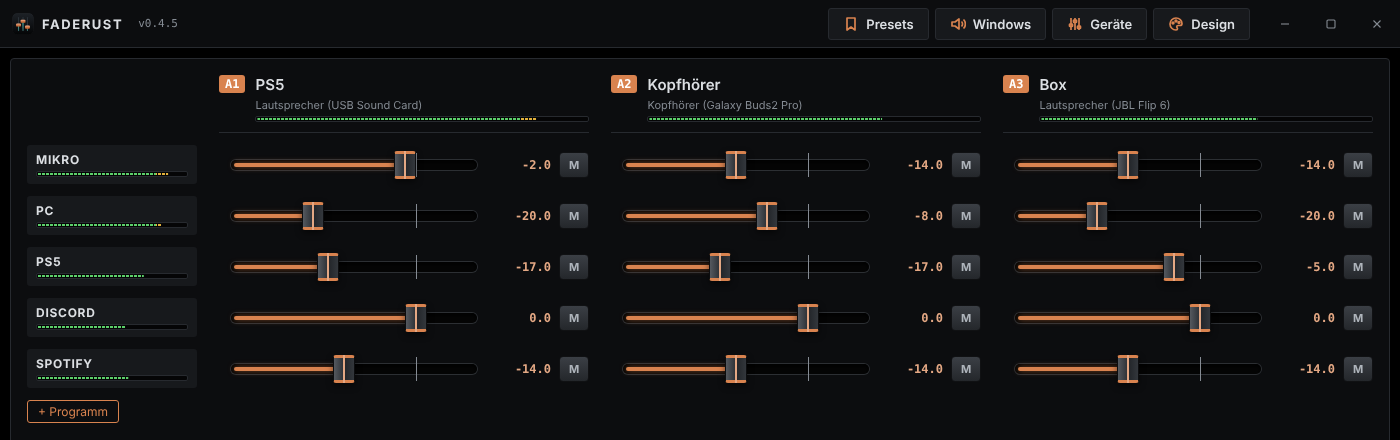
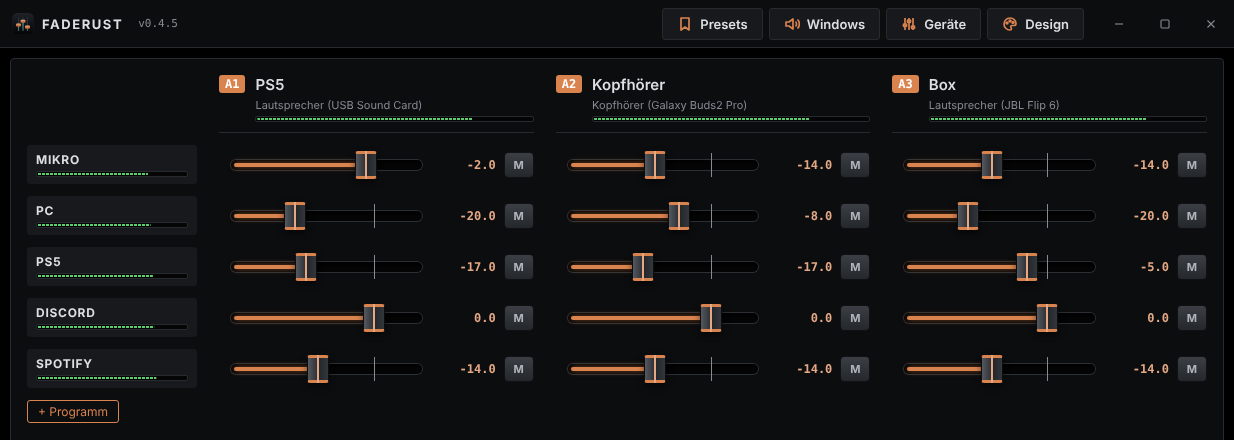
Fit the window width to the strips, narrower program strips (0.4.6)

diff --git a/crates/app/ui/src/lib/StripView.svelte b/crates/app/ui/src/lib/StripView.svelte
@@ -1,7 +1,8 @@
 <script>
   import Fader from "./Fader.svelte";
   import Meter from "./Meter.svelte";
-  import { fxActive } from "./api.js";
+  import { tick } from "svelte";
+  import { fitWindowWidth, fxActive } from "./api.js";
   import { stripChanges, stripValue, OFF } from "./scale.js";
 
   /**
@@ -32,6 +33,21 @@
 
   const row = (i) => outputs.map((_, o) => gains[i]?.[o] ?? { db: 0, muted: true });
 
+  // The window follows the strips: wider for each new one, narrower when
+  // one goes. Measured after the DOM has the new strips.
+  let stripsEl = $state();
+  $effect(() => {
+    const key = `${outputs.length}/${devices.length}/${programs.length}/${side}`;
+    if (!stripsEl || !key) return;
+    tick().then(() => {
+      if (!stripsEl) return;
+      const groups = [...stripsEl.children];
+      const gap = parseFloat(getComputedStyle(stripsEl).columnGap) || 0;
+      const content = groups.reduce((w, g) => w + g.offsetWidth, 0) + gap * Math.max(0, groups.length - 1);
+      fitWindowWidth(content + window.innerWidth - stripsEl.clientWidth);
+    });
+  });
+
   function move(i, db) {
     for (const [o, v] of stripChanges(row(i), db)) onGain(i, o, v);
   }
@@ -48,9 +64,9 @@
   }
 </script>
 
-{#snippet strip(input, i)}
+{#snippet strip(input, i, narrow = false)}
   {@const r = row(i)}
-  <section class="strip panel">
+  <section class="strip panel" class:narrow>
     <div class="buses">
       {#each outputs as output, o}
         {@const on = !(gains[i]?.[o]?.muted ?? true)}
@@ -72,6 +88,7 @@
         muted={input.muted ?? false}
         levelDb={input.levelDb}
         connected={input.connected}
+        {narrow}
         onChange={(db) => move(i, db)}
         onMute={(v) => onInputMute(i, v)}
       />
@@ -81,7 +98,7 @@
 {/snippet}
 
 <div class="desk">
-  <div class="strips">
+  <div class="strips" bind:this={stripsEl}>
     <div class="group outs" class:left={side === "left"}>
       <h2>Ausgänge</h2>
       <div class="row">
@@ -122,7 +139,7 @@
       <h2>Programme <button class="add" onclick={onPrograms} title="Programme als Eingang aufnehmen">+ Programm</button></h2>
       <div class="row">
         {#each programs as { input, i } (i)}
-          {@render strip(input, i)}
+          {@render strip(input, i, true)}
         {:else}
           {#if !allPrograms.length}
             <p class="hint">Mit „+ Programm“ bekommt z. B. Discord oder Brave einen eigenen Streifen.</p>
@@ -203,6 +220,14 @@
     align-items: center;
     gap: 10px;
     padding: 10px 12px;
+  }
+  .strip.narrow {
+    padding: 10px 8px;
+  }
+  .narrow .bus {
+    min-width: 0;
+    padding: 3px 4px;
+    font-size: 11px;
   }
   .grow {
     flex: 1;

diff --git a/crates/app/ui/src/lib/Fader.svelte b/crates/app/ui/src/lib/Fader.svelte
@@ -23,6 +23,8 @@
     showMute = true,
     // The level already includes this fader (an output's master).
     postFader = false,
+    // Without the scale, for the narrower program strips.
+    narrow = false,
     onChange,
     onMute,
   } = $props();
@@ -144,7 +146,7 @@
   );
 </script>
 
-<div class="strip" class:offline={!connected || blocked}>
+<div class="strip" class:narrow class:offline={!connected || blocked}>
   <div class="label" title={label}>{label}</div>
   {#if note}<div class="note" class:on={noteOn} class:warn={blocked} title={noteTitle}>{note}</div>{/if}
   <div class="body">
@@ -205,6 +207,22 @@
 </div>
 
 <style>
+  /* Narrow: no scale, the cap and slot move left (58 px track). */
+  .strip.narrow {
+    width: 84px;
+  }
+  .narrow .track {
+    width: 58px;
+  }
+  .narrow .scale {
+    display: none;
+  }
+  .narrow .slot {
+    left: 24px;
+  }
+  .narrow .cap {
+    left: 0;
+  }
   .strip {
     position: relative;
     display: flex;

diff --git a/crates/app/ui/src/lib/api.js b/crates/app/ui/src/lib/api.js
@@ -29,6 +29,22 @@ export async function windowAction(action) {
   if (action === "close") return w.close();
 }
 
+/**
+ * Sets the window's width (CSS pixels) to fit its content, within the
+ * screen; height stays. Does nothing while maximized.
+ */
+export async function fitWindowWidth(width) {
+  const w = Math.round(Math.min(Math.max(width, 480), screen.availWidth));
+  if (!inTauri) return;
+  const { getCurrentWindow, LogicalSize } = await import("@tauri-apps/api/window");
+  const win = getCurrentWindow();
+  if (await win.isMaximized()) return;
+  const scale = await win.scaleFactor();
+  const size = (await win.innerSize()).toLogical(scale);
+  if (Math.abs(size.width - w) < 2) return;
+  await win.setSize(new LogicalSize(w, size.height));
+}
+
 let pendingUpdate = null;
 
 /** A newer release, as `{ version }`, or null. Checked against GitHub. */

diff --git a/.github/release-notes.md b/.github/release-notes.md
@@ -1,11 +1,7 @@
-## Neu in 0.4.5
+## Neu in 0.4.6
 
-- **MUTE für Geräte und Programme:** schaltet den Eingang überall stumm, die Auswahl A1–A3 bleibt erhalten
-- **Bluetooth-Freigabe einstellbar:** pro Ausgang unter „Geräte“ (nie, 5 s, 30 s, 2 min), Standard 30 s
-- **Stille Programme ausblenden:** nach 2 min, unter „Design“ einstellbar. „… still, zeigen“ holt sie zurück
-- **dB-Wert eintippen:** auf die Zahl unter einem Fader klicken
-- Ruhigere LED-Anzeigen, dunkle Darstellung in OLED-Schwarz
-- „+ Eingang“ für Programme ist robuster: erst aufs freie Kabel, dann aufnehmen, nach einem Fehler 30 s Pause
+- **Fenster passt sich an:** Kommt ein Streifen dazu oder fällt einer weg, ändert Faderust die Fensterbreite selbst (nicht bei maximiertem Fenster)
+- **Schmalere Programm-Streifen:** ohne Skala, mit kleineren A-Knöpfen
 
 ## Installation
 
